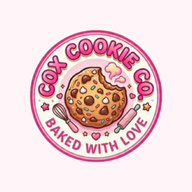
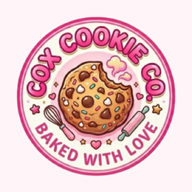
Auto-save

diff --git a/frontend/src/index.css b/frontend/src/index.css
@@ -2,7 +2,7 @@
 
 /* ─── Design Tokens ───────────────────────────────────────────── */
 :root {
-  --bg:           #F46696;
+  --bg:           #FFF5F8;
   --bg-subtle:    #FFE8F0;
   --surface:      #FFFFFF;
   --surface-hover:#F4F3FD;
